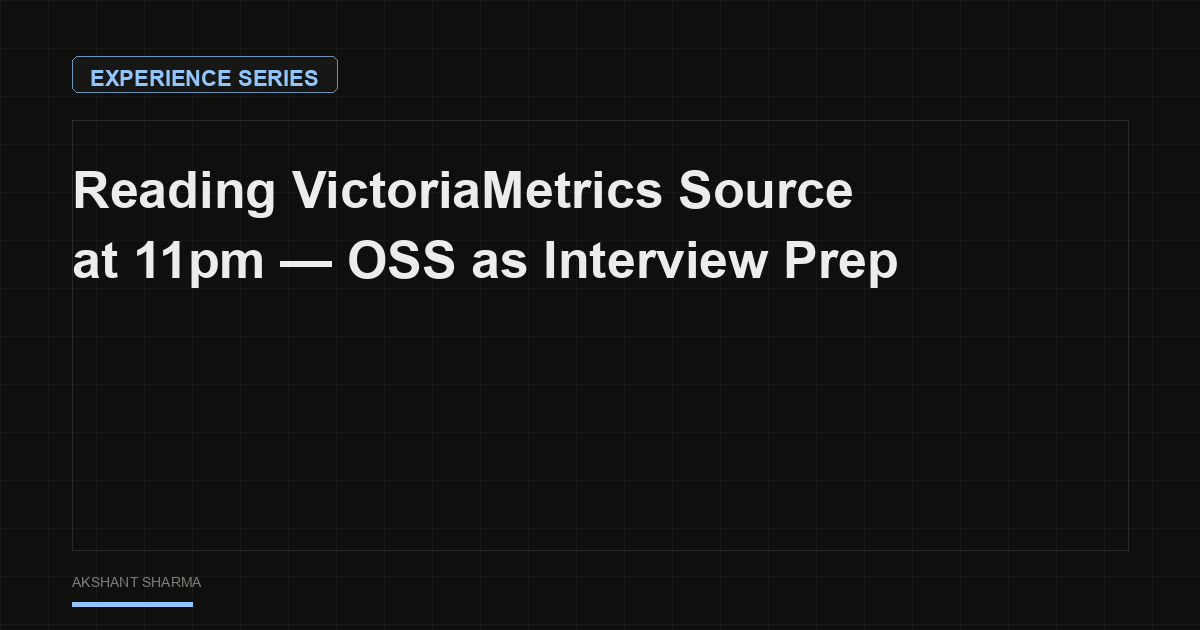
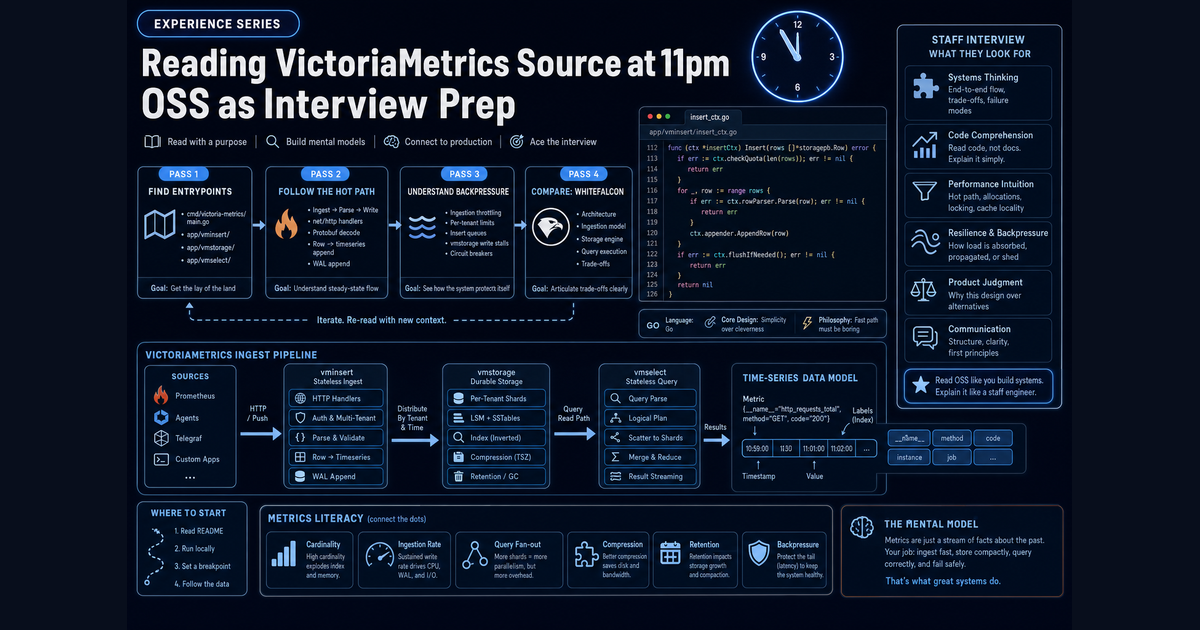
fix: regenerate Day 10 and Experience 10 blog covers as rich infographics
Replace plain grid placeholders with topic-specific art; wire cover_generated
into the cover script and add slug prompts for day 8–10 and Experience 9–10.

Changed region(s): [[0.0617, 0.0, 0.8942, 0.9651]]

diff --git a/scripts/generate_covers_from_content.py b/scripts/generate_covers_from_content.py
@@ -44,6 +44,16 @@ POST_HTML: dict[str, Path | None] = {
     / "blog/series/ai-learning/day-6-quantization-vs-compression-tradeoffs.html",
     "day-7-prompt-caching-infrastructure-layer": ROOT
     / "blog/series/ai-learning/day-7-prompt-caching-infrastructure-layer.html",
+    "day-8-rag-as-infra-pipeline": ROOT
+    / "blog/series/ai-learning/day-8-rag-as-infra-pipeline.html",
+    "day-9-gpu-memory-management": ROOT
+    / "blog/series/ai-learning/day-9-gpu-memory-management.html",
+    "day-10-serving-frameworks-queue-schedulers": ROOT
+    / "blog/series/ai-learning/day-10-serving-frameworks-queue-schedulers.html",
+    "we-killed-redpanda-on-purpose-chaos-as-commit-message": ROOT
+    / "blog/series/experience/we-killed-redpanda-on-purpose-chaos-as-commit-message.html",
+    "reading-victoriametrics-source-oss-interview-prep": ROOT
+    / "blog/series/experience/reading-victoriametrics-source-oss-interview-prep.html",
     "building-tsdb-at-agoda": ROOT / "blog/series/experience/building-tsdb-at-agoda.html",
     "when-percentiles-lie-cross-tier-queries": ROOT
     / "blog/series/experience/when-percentiles-lie-cross-tier-queries.html",
@@ -69,6 +79,11 @@ TITLE_OVERRIDE: dict[str, str] = {
     "day-5-sampling-deterministic-routing": "Sampling and\nDeterministic Routing",
     "day-6-quantization-vs-compression-tradeoffs": "Quantization vs\nCompression Tradeoffs",
     "day-7-prompt-caching-infrastructure-layer": "Prompt Caching at the\nInfrastructure Layer",
+    "day-8-rag-as-infra-pipeline": "RAG as an\nInfrastructure Pipeline",
+    "day-9-gpu-memory-management": "GPU Memory Management\nFour Tenants, One VRAM Budget",
+    "day-10-serving-frameworks-queue-schedulers": "Serving Frameworks Compared\nas Queue Schedulers",
+    "we-killed-redpanda-on-purpose-chaos-as-commit-message": "We Killed Redpanda on Purpose\nChaos as Commit Message",
+    "reading-victoriametrics-source-oss-interview-prep": "Reading VictoriaMetrics Source at 11pm\nOSS as Interview Prep",
     "building-tsdb-at-agoda": "1.5 Trillion Events/Day\nTSDB at Agoda",
     "when-percentiles-lie-cross-tier-queries": "When Percentiles Lie:\nCross-Tier Queries in a 1.8T/day TSDB",
     "seven-million-iot-sensors-failure-modes": "Seven Million IoT Sensors\n— Failure Modes Textbooks Skip",
@@ -111,6 +126,28 @@ TOPIC_HINTS: dict[str, str] = {
         "SYSTEM TOOLS RAG prefix blocks with HIT arrow into provider prefix KV cache, "
         "usage tiers CREATE READ FRESH to cost_usd down, TTL countdown, Anthropic OpenAI cache_read tokens"
     ),
+    "day-8-rag-as-infra-pipeline": (
+        "chunk embed index retrieve rerank generate pipeline, vector DB + object store tiers, "
+        "staleness TTL, eval gates, LensAI ingest schema gaps"
+    ),
+    "day-9-gpu-memory-management": (
+        "VRAM bar: weights activations KV cache overhead on A10G 24GB, OOM cliff at 24GB, "
+        "batch=1 OK vs batch=4 OOM, four tenants one budget"
+    ),
+    "day-10-serving-frameworks-queue-schedulers": (
+        "three serving framework columns vLLM TGI Ollama as queue schedulers, "
+        "request queue with admission arrows, prefill vs decode phases, continuous batching slots, "
+        "KV memory pressure meter, serving_framework label on latency_ms panel"
+    ),
+    "we-killed-redpanda-on-purpose-chaos-as-commit-message": (
+        "Kafka Redpanda 3-broker cluster one broker KILLED red dashed box, "
+        "recovery gap timeline T0 healthy T1 kill T2 wrong data window T3 restored, chaos engineering"
+    ),
+    "reading-victoriametrics-source-oss-interview-prep": (
+        "four-pass OSS reading map: entrypoints → hot path → backpressure → compare WhiteFalcon, "
+        "VictoriaMetrics ingest arrows, Go code window at 11pm clock, time-series blocks, "
+        "Staff interview checklist, metrics literacy"
+    ),
     "building-tsdb-at-agoda": (
         "Kafka → Rust ingestion → Redis hot tier → S3 Parquet cold tier, "
         "RoaringBitmap inverted index, 1.5T events/day counter, WhiteFalcon query path"
@@ -151,6 +188,11 @@ ACCENT: dict[str, str] = {
     "day-5-sampling-deterministic-routing": "neon green #5bd37a",
     "day-6-quantization-vs-compression-tradeoffs": "neon green #5bd37a",
     "day-7-prompt-caching-infrastructure-layer": "neon green #5bd37a",
+    "day-8-rag-as-infra-pipeline": "neon green #5bd37a",
+    "day-9-gpu-memory-management": "neon green #5bd37a",
+    "day-10-serving-frameworks-queue-schedulers": "neon green #5bd37a",
+    "we-killed-redpanda-on-purpose-chaos-as-commit-message": "electric blue #64b4ff",
+    "reading-victoriametrics-source-oss-interview-prep": "electric blue #64b4ff",
     "building-tsdb-at-agoda": "electric blue #64b4ff",
     "when-percentiles-lie-cross-tier-queries": "electric blue #64b4ff",
     "seven-million-iot-sensors-failure-modes": "cyan #00d2e6",

diff --git a/scripts/generate_blog_covers.py b/scripts/generate_blog_covers.py
@@ -31,6 +31,7 @@ COVERS_DIR = ROOT / "blog" / "assets" / "covers"
 OG_DIR = ROOT / "blog" / "assets" / "og"
 SCRIPT_DIR = Path(__file__).resolve().parent
 RICH_GENERATED_DIR = SCRIPT_DIR / "cover_assets_rich"
+CONTENT_GENERATED_DIR = SCRIPT_DIR / "cover_generated"
 
 DEFAULT_ASSETS = Path(
     "/Users/akshant/.cursor/projects/Users-akshant-Desktop-github-Profile/assets"
@@ -384,6 +385,16 @@ def process_rich_generated(slug: str, filename: str) -> None:
     )
 
 
+def process_content_generated(slug: str) -> bool:
+    """Install scripts/cover_generated/<slug>.png if present."""
+    src = CONTENT_GENERATED_DIR / f"{slug}.png"
+    if not src.exists():
+        return False
+    img = Image.open(src).convert("RGB")
+    write_cover(slug, img)
+    return True
+
+
 def run_rich(assets_dir: Path, slugs: list[str] | None = None) -> None:
     targets = slugs or ALL_SLUGS
     print("Rich infographic covers → blog/assets/{covers,og}/")
@@ -392,8 +403,10 @@ def run_rich(assets_dir: Path, slugs: list[str] | None = None) -> None:
             process_user_art(assets_dir, slug, USER_ART[slug])
         elif slug in RICH_GENERATED:
             process_rich_generated(slug, RICH_GENERATED[slug])
+        elif process_content_generated(slug):
+            continue
         else:
-            print(f"  ? unknown slug: {slug}")
+            print(f"  ? no art for {slug} — use generate_covers_from_content.py")
 
 
 # --- Deprecated plain generator ---
